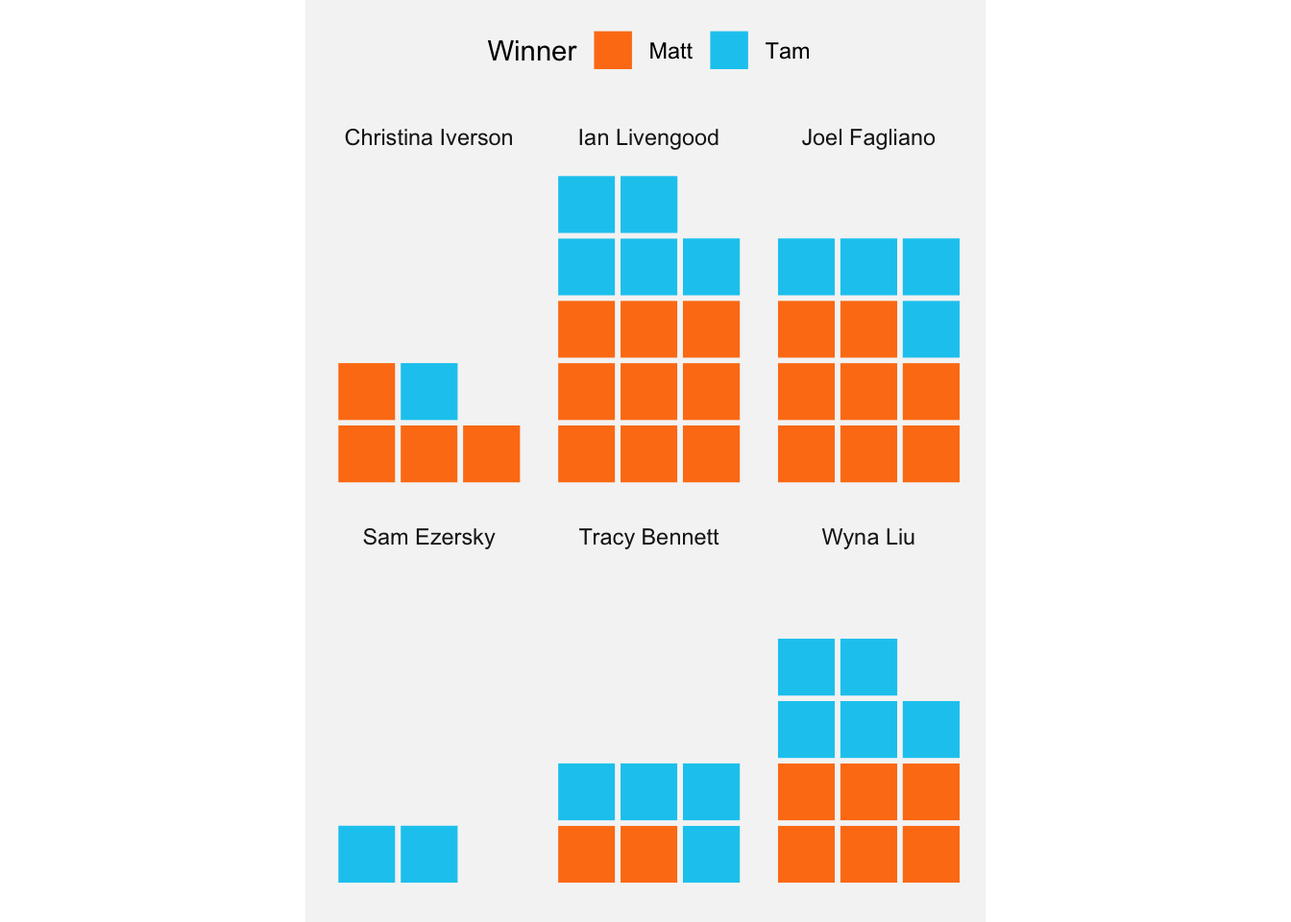
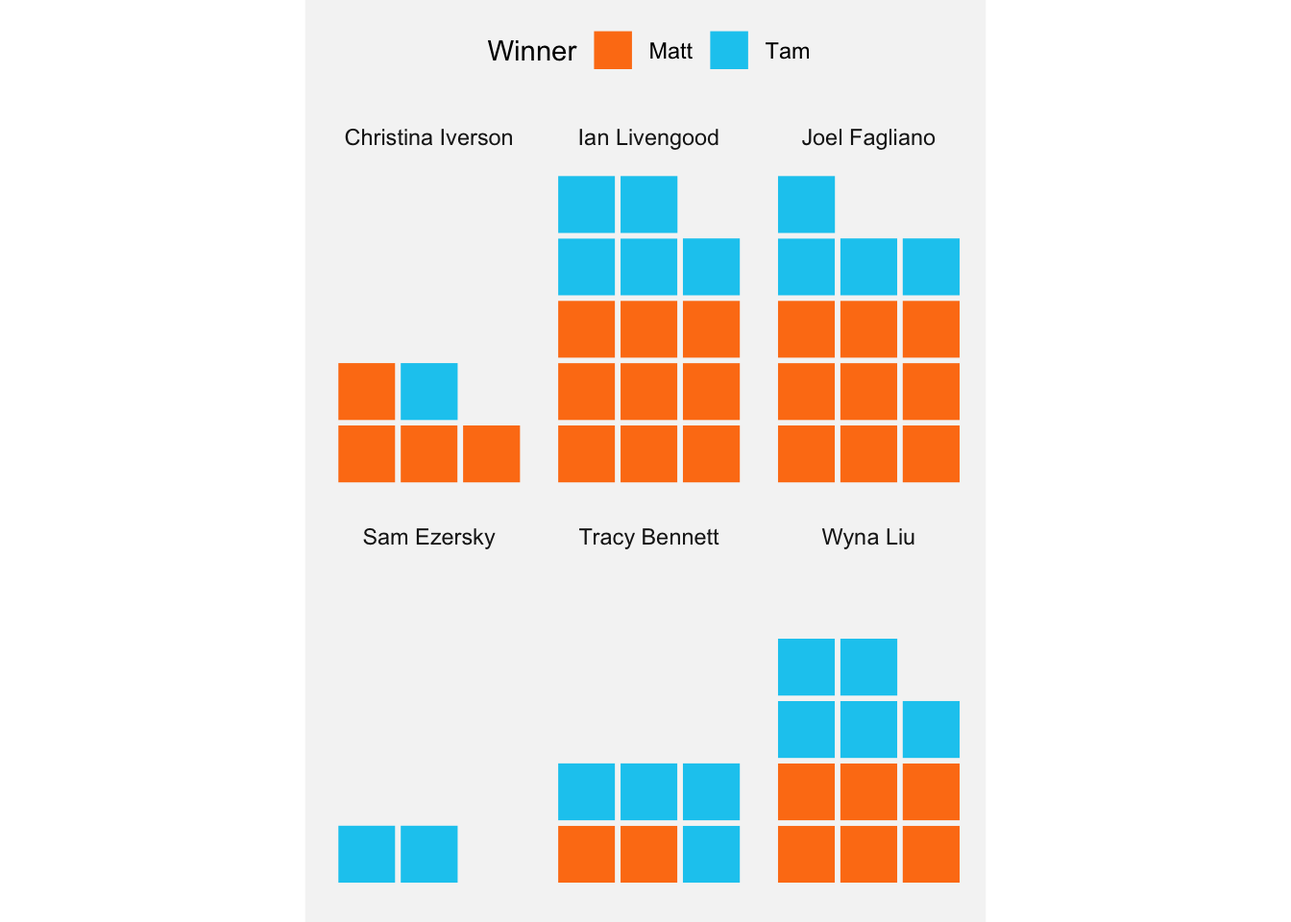
Use a donut chart

Changed region(s): [[0.6875, 0.3125, 0.75, 0.4062], [0.5938, 0.1875, 0.6562, 0.25]]

diff --git a/mini.html b/mini.html
@@ -33,6 +33,7 @@ ul.task-list li input[type="checkbox"] {
 <script src="mini_files/libs/bootstrap/bootstrap.min.js"></script>
 <link href="mini_files/libs/bootstrap/bootstrap-icons.css" rel="stylesheet">
 <link href="mini_files/libs/bootstrap/bootstrap.min.css" rel="stylesheet" id="quarto-bootstrap" data-mode="light">
+<link href="mini_files/libs/htmltools-fill-0.5.8.1/fill.css" rel="stylesheet">
 <script src="mini_files/libs/htmlwidgets-1.6.4/htmlwidgets.js"></script>
 <script src="mini_files/libs/plotly-binding-4.10.4/plotly.js"></script>
 <script src="mini_files/libs/typedarray-0.1/typedarray.min.js"></script>
@@ -41,7 +42,6 @@ ul.task-list li input[type="checkbox"] {
 <script src="mini_files/libs/crosstalk-1.2.1/js/crosstalk.min.js"></script>
 <link href="mini_files/libs/plotly-htmlwidgets-css-2.11.1/plotly-htmlwidgets.css" rel="stylesheet">
 <script src="mini_files/libs/plotly-main-2.11.1/plotly-latest.min.js"></script>
-<link href="mini_files/libs/htmltools-fill-0.5.8.1/fill.css" rel="stylesheet">
 
 
 <link rel="stylesheet" href="crossword.css">
@@ -75,11 +75,14 @@ ul.task-list li input[type="checkbox"] {
 <p>S</p>
 </div>
 </div>
-<p>After 52 Minis, <strong><span class="matt">Matt</span></strong> is leading 29 to 21 (with 2 draws).</p>
+<p>After 52 Minis, <strong><span class="matt">Matt</span></strong> is leading 30 to 21 (with 1 draw).</p>
 <div class="cell">
 <div class="cell-output-display">
-<div id="htmlwidget-36adeb870fa0dd1360db" style="width:100%;height:145px;" class="plotly html-widget"></div>
-<script type="application/json" data-for="htmlwidget-36adeb870fa0dd1360db">{"x":{"data":[{"orientation":"h","width":0.89999999999999991,"base":0.96153846153846156,"x":[0.038461538461538436],"y":[1],"text":"Matt and Tam have drawn 2 Minis (3.8%) so far","type":"bar","textposition":"none","marker":{"autocolorscale":false,"color":"rgba(190,190,190,1)","line":{"width":1.8897637795275593,"color":"transparent"}},"name":"Draw","legendgroup":"Draw","showlegend":true,"xaxis":"x","yaxis":"y","hoverinfo":"text","frame":null},{"orientation":"h","width":0.89999999999999991,"base":0.55769230769230771,"x":[0.40384615384615385],"y":[1],"text":"Tam has won 21 of 52 Minis (40.4%) so far","type":"bar","textposition":"none","marker":{"autocolorscale":false,"color":"rgba(13,202,240,1)","line":{"width":1.8897637795275593,"color":"transparent"}},"name":"Tam","legendgroup":"Tam","showlegend":true,"xaxis":"x","yaxis":"y","hoverinfo":"text","frame":null},{"orientation":"h","width":0.89999999999999991,"base":0,"x":[0.55769230769230771],"y":[1],"text":"Matt has won 29 of 52 Minis (55.8%) so far","type":"bar","textposition":"none","marker":{"autocolorscale":false,"color":"rgba(253,126,20,1)","line":{"width":1.8897637795275593,"color":"transparent"}},"name":"Matt","legendgroup":"Matt","showlegend":true,"xaxis":"x","yaxis":"y","hoverinfo":"text","frame":null},{"x":[0.98076923076923084],"y":[1],"text":"","hovertext":"Matt and Tam have drawn 2 Minis (3.8%) so far","textfont":{"size":11.338582677165356,"color":"rgba(255,255,255,1)"},"type":"scatter","mode":"text","hoveron":"points","name":"Draw","legendgroup":"Draw","showlegend":false,"xaxis":"x","yaxis":"y","hoverinfo":"text","frame":null},{"x":[0.75961538461538458],"y":[1],"text":"Tam: 21 (40%)","hovertext":"Tam has won 21 of 52 Minis (40.4%) so far","textfont":{"size":11.338582677165356,"color":"rgba(255,255,255,1)"},"type":"scatter","mode":"text","hoveron":"points","name":"Tam","legendgroup":"Tam","showlegend":false,"xaxis":"x","yaxis":"y","hoverinfo":"text","frame":null},{"x":[0.27884615384615385],"y":[1],"text":"Matt: 29 (56%)","hovertext":"Matt has won 29 of 52 Minis (55.8%) so far","textfont":{"size":11.338582677165356,"color":"rgba(255,255,255,1)"},"type":"scatter","mode":"text","hoveron":"points","name":"Matt","legendgroup":"Matt","showlegend":false,"xaxis":"x","yaxis":"y","hoverinfo":"text","frame":null}],"layout":{"margin":{"t":40.547945205479465,"r":7.3059360730593621,"b":28.200913242009143,"l":10.958904109589042},"plot_bgcolor":"rgba(245,245,245,1)","paper_bgcolor":"rgba(245,245,245,1)","font":{"color":"rgba(0,0,0,1)","family":"","size":14.611872146118724},"xaxis":{"domain":[0,1],"automargin":true,"type":"linear","autorange":false,"range":[-0.050000000000000003,1.05],"tickmode":"array","ticktext":["0.00","0.25","0.50","0.75","1.00"],"tickvals":[0,0.25,0.5,0.75,1],"categoryorder":"array","categoryarray":["0.00","0.25","0.50","0.75","1.00"],"nticks":null,"ticks":"","tickcolor":null,"ticklen":3.6529680365296811,"tickwidth":0,"showticklabels":false,"tickfont":{"color":null,"family":null,"size":0},"tickangle":-0,"showline":false,"linecolor":null,"linewidth":0,"showgrid":false,"gridcolor":null,"gridwidth":0,"zeroline":false,"anchor":"y","title":{"text":"","font":{"color":"rgba(0,0,0,1)","family":"","size":14.611872146118724}},"hoverformat":".2f"},"yaxis":{"domain":[0,1],"automargin":true,"type":"linear","autorange":false,"range":[0.40000000000000002,1.6000000000000001],"tickmode":"array","ticktext":["1"],"tickvals":[1],"categoryorder":"array","categoryarray":["1"],"nticks":null,"ticks":"","tickcolor":null,"ticklen":3.6529680365296811,"tickwidth":0,"showticklabels":false,"tickfont":{"color":null,"family":null,"size":0},"tickangle":-0,"showline":false,"linecolor":null,"linewidth":0,"showgrid":false,"gridcolor":null,"gridwidth":0,"zeroline":false,"anchor":"x","title":{"text":"","font":{"color":"rgba(0,0,0,1)","family":"","size":14.611872146118724}},"hoverformat":".2f"},"shapes":[{"type":"rect","fillcolor":null,"line":{"color":null,"width":0,"linetype":[]},"yref":"paper","xref":"paper","x0":0,"x1":1,"y0":0,"y1":1}],"showlegend":false,"legend":{"bgcolor":null,"bordercolor":null,"borderwidth":0,"font":{"color":"rgba(0,0,0,1)","family":"","size":11.68949771689498},"title":{"text":"","font":{"color":"rgba(0,0,0,1)","family":"","size":14.611872146118724}}},"hovermode":"closest","height":150,"barmode":"relative"},"config":{"doubleClick":"reset","modeBarButtonsToAdd":["hoverclosest","hovercompare"],"showSendToCloud":false,"displayModeBar":true,"displaylogo":false,"modeBarButtonsToRemove":["zoom","pan","select","zoomIn","zoomOut","autoScale","resetScale","lasso2d","hoverClosestCartesian","hoverCompareCartesian"]},"source":"A","attrs":{"b2fec1ca85d":{"x":{},"y":{},"fill":{},"label":{},"text":{},"type":"bar"},"b2fe2d7177e1":{"x":{},"y":{},"fill":{},"label":{},"text":{}}},"cur_data":"b2fec1ca85d","visdat":{"b2fec1ca85d":["function (y) ","x"],"b2fe2d7177e1":["function (y) ","x"]},"highlight":{"on":"plotly_click","persistent":false,"dynamic":false,"selectize":false,"opacityDim":0.20000000000000001,"selected":{"opacity":1},"debounce":0},"shinyEvents":["plotly_hover","plotly_click","plotly_selected","plotly_relayout","plotly_brushed","plotly_brushing","plotly_clickannotation","plotly_doubleclick","plotly_deselect","plotly_afterplot","plotly_sunburstclick"],"base_url":"https://plot.ly"},"evals":[],"jsHooks":[]}</script>
+<div>
+<figure class="figure">
+<p><img src="mini_files/figure-html/Chart%20comparing%20numbers/proportions%20of%20wins-1.png" class="img-fluid figure-img" width="672"></p>
+</figure>
+</div>
 </div>
 </div>
 <div class="crossword-container">
@@ -101,14 +104,14 @@ ul.task-list li input[type="checkbox"] {
 </div>
 </div>
 </div>
-<p>We both hold the record for the fastest Mini, completing it in <strong>0:10</strong> on 22 March 2025.</p>
-<p><span class="matt">Matt</span> played the slowest game: a sluggish <strong>5:46</strong> on 1 February 2025.</p>
-<p>Other than the draws, our closest game was won by <strong><span class="tam">Tam</span></strong> by a mere 1 second.</p>
-<p>This chart compares our completion times for each Mini:</p>
+<p><span class="matt">Matt</span> holds the record for the fastest Mini, completing it in <strong>0:18</strong> on 4 February 2025.</p>
+<p><span class="matt">Matt</span> also played the slowest game: a sluggish <strong>5:46</strong> on 1 February 2025.</p>
+<p>Other than the draw, our closest game was won by <strong><span class="tam">Tam</span></strong> by a mere 1 second.</p>
+<p>This chart compares our completion times for each Mini. Click/hover on the points to see the details of each game.</p>
 <div class="cell">
 <div class="cell-output-display">
-<div class="plotly html-widget html-fill-item" id="htmlwidget-883550434ba22722b62f" style="width:100%;height:464px;"></div>
-<script type="application/json" data-for="htmlwidget-883550434ba22722b62f">{"x":{"data":[{"x":[20080,20080,null,20081,20081,null,20083,20083,null,20085,20085,null,20086,20086,null,20089,20089,null,20090,20090,null,20091,20091,null,20092,20092,null,20093,20093,null,20095,20095,null,20098,20098,null,20099,20099,null,20100,20100,null,20101,20101,null,20105,20105,null,20108,20108,null,20109,20109,null,20110,20110,null,20112,20112,null,20113,20113,null,20114,20114,null,20115,20115,null,20116,20116,null,20118,20118,null,20119,20119,null,20120,20120,null,20122,20122,null,20123,20123,null,20124,20124,null,20125,20125,null,20126,20126,null,20128,20128,null,20130,20130,null,20131,20131,null,20135,20135,null,20137,20137,null,20138,20138,null,20139,20139,null,20141,20141,null,20142,20142,null,20143,20143,null,20144,20144,null,20145,20145,null,20146,20146,null,20147,20147,null,20149,20149,null,20150,20150,null,20159,20159,null,20163,20163,null,20164,20164,null,20169,20169],"y":[142,72,null,48,39,null,80,234,null,229,137,null,65,162,null,154,34,null,56,32,null,99,72,null,117,93,null,49,49,null,92,155,null,86,57,null,104,124,null,61,141,null,51,146,null,51,45,null,106,86,null,71,46,null,50,52,null,59,182,null,242,144,null,82,71,null,129,60,null,120,135,null,121,162,null,31,74,null,346,257,null,49,81,null,18,27,null,194,77,null,46,114,null,45,64,null,40,62,null,57,50,null,45,74,null,92,82,null,163,70,null,57,66,null,160,46,null,124,340,null,44,81,null,45,80,null,45,82,null,115,182,null,97,118,null,54,57,null,61,163,null,66,65,null,63,155,null,62,68,null,75,129,null,10,10],"text":"","type":"scatter","mode":"lines","line":{"width":1.8897637795275593,"color":"rgba(0,0,0,1)","dash":"solid"},"hoveron":"points","showlegend":false,"xaxis":"x","yaxis":"y","hoverinfo":"text","frame":null},{"x":[20080,20081,20083,20085,20086,20089,20090,20091,20092,20093,20095,20098,20099,20100,20101,20105,20108,20109,20110,20112,20113,20114,20115,20116,20118,20119,20120,20122,20123,20124,20125,20126,20128,20130,20131,20135,20137,20138,20139,20141,20142,20143,20144,20145,20146,20147,20149,20150,20159,20163,20164,20169],"y":[142,48,80,229,65,154,56,99,117,49,92,86,104,61,51,51,106,71,50,59,242,82,129,120,121,31,346,49,18,194,46,45,40,57,45,92,163,57,160,124,44,45,45,115,97,54,61,66,63,62,75,10],"text":["Matt completed the Mini in 2:22 on 23 December 2024","Matt completed the Mini in 0:48 on 24 December 2024","Matt completed the Mini in 1:20 on 26 December 2024","Matt completed the Mini in 3:49 on 28 December 2024","Matt completed the Mini in 1:05 on 29 December 2024","Matt completed the Mini in 2:34 on 1 January 2025","Matt completed the Mini in 0:56 on 2 January 2025","Matt completed the Mini in 1:39 on 3 January 2025","Matt completed the Mini in 1:57 on 4 January 2025","Matt completed the Mini in 0:49 on 5 January 2025","Matt completed the Mini in 1:32 on 7 January 2025","Matt completed the Mini in 1:26 on 10 January 2025","Matt completed the Mini in 1:44 on 11 January 2025","Matt completed the Mini in 1:01 on 12 January 2025","Matt completed the Mini in 0:51 on 13 January 2025","Matt completed the Mini in 0:51 on 17 January 2025","Matt completed the Mini in 1:46 on 20 January 2025","Matt completed the Mini in 1:11 on 21 January 2025","Matt completed the Mini in 0:50 on 22 January 2025","Matt completed the Mini in 0:59 on 24 January 2025","Matt completed the Mini in 4:02 on 25 January 2025","Matt completed the Mini in 1:22 on 26 January 2025","Matt completed the Mini in 2:09 on 27 January 2025","Matt completed the Mini in 2:00 on 28 January 2025","Matt completed the Mini in 2:01 on 30 January 2025","Matt completed the Mini in 0:31 on 31 January 2025","Matt completed the Mini in 5:46 on 1 February 2025","Matt completed the Mini in 0:49 on 3 February 2025","Matt completed the Mini in 0:18 on 4 February 2025","Matt completed the Mini in 3:14 on 5 February 2025","Matt completed the Mini in 0:46 on 6 February 2025","Matt completed the Mini in 0:45 on 7 February 2025","Matt completed the Mini in 0:40 on 9 February 2025","Matt completed the Mini in 0:57 on 11 February 2025","Matt completed the Mini in 0:45 on 12 February 2025","Matt completed the Mini in 1:32 on 16 February 2025","Matt completed the Mini in 2:43 on 18 February 2025","Matt completed the Mini in 0:57 on 19 February 2025","Matt completed the Mini in 2:40 on 20 February 2025","Matt completed the Mini in 2:04 on 22 February 2025","Matt completed the Mini in 0:44 on 23 February 2025","Matt completed the Mini in 0:45 on 24 February 2025","Matt completed the Mini in 0:45 on 25 February 2025","Matt completed the Mini in 1:55 on 26 February 2025","Matt completed the Mini in 1:37 on 27 February 2025","Matt completed the Mini in 0:54 on 28 February 2025","Matt completed the Mini in 1:01 on 2 March 2025","Matt completed the Mini in 1:06 on 3 March 2025","Matt completed the Mini in 1:03 on 12 March 2025","Matt completed the Mini in 1:02 on 16 March 2025","Matt completed the Mini in 1:15 on 17 March 2025","Matt completed the Mini in 0:10 on 22 March 2025"],"type":"scatter","mode":"markers","marker":{"autocolorscale":false,"color":"rgba(253,126,20,1)","opacity":1,"size":7.559055118110237,"symbol":"circle","line":{"width":1.8897637795275593,"color":"rgba(253,126,20,1)"}},"hoveron":"points","showlegend":false,"xaxis":"x","yaxis":"y","hoverinfo":"text","frame":null},{"x":[20080,20081,20083,20085,20086,20089,20090,20091,20092,20093,20095,20098,20099,20100,20101,20105,20108,20109,20110,20112,20113,20114,20115,20116,20118,20119,20120,20122,20123,20124,20125,20126,20128,20130,20131,20135,20137,20138,20139,20141,20142,20143,20144,20145,20146,20147,20149,20150,20159,20163,20164,20169],"y":[72,39,234,137,162,34,32,72,93,49,155,57,124,141,146,45,86,46,52,182,144,71,60,135,162,74,257,81,27,77,114,64,62,50,74,82,70,66,46,340,81,80,82,182,118,57,163,65,155,68,129,10],"text":["Tam completed the Mini in 1:12 on 23 December 2024","Tam completed the Mini in 0:39 on 24 December 2024","Tam completed the Mini in 3:54 on 26 December 2024","Tam completed the Mini in 2:17 on 28 December 2024","Tam completed the Mini in 2:42 on 29 December 2024","Tam completed the Mini in 0:34 on 1 January 2025","Tam completed the Mini in 0:32 on 2 January 2025","Tam completed the Mini in 1:12 on 3 January 2025","Tam completed the Mini in 1:33 on 4 January 2025","Tam completed the Mini in 0:49 on 5 January 2025","Tam completed the Mini in 2:35 on 7 January 2025","Tam completed the Mini in 0:57 on 10 January 2025","Tam completed the Mini in 2:04 on 11 January 2025","Tam completed the Mini in 2:21 on 12 January 2025","Tam completed the Mini in 2:26 on 13 January 2025","Tam completed the Mini in 0:45 on 17 January 2025","Tam completed the Mini in 1:26 on 20 January 2025","Tam completed the Mini in 0:46 on 21 January 2025","Tam completed the Mini in 0:52 on 22 January 2025","Tam completed the Mini in 3:02 on 24 January 2025","Tam completed the Mini in 2:24 on 25 January 2025","Tam completed the Mini in 1:11 on 26 January 2025","Tam completed the Mini in 1:00 on 27 January 2025","Tam completed the Mini in 2:15 on 28 January 2025","Tam completed the Mini in 2:42 on 30 January 2025","Tam completed the Mini in 1:14 on 31 January 2025","Tam completed the Mini in 4:17 on 1 February 2025","Tam completed the Mini in 1:21 on 3 February 2025","Tam completed the Mini in 0:27 on 4 February 2025","Tam completed the Mini in 1:17 on 5 February 2025","Tam completed the Mini in 1:54 on 6 February 2025","Tam completed the Mini in 1:04 on 7 February 2025","Tam completed the Mini in 1:02 on 9 February 2025","Tam completed the Mini in 0:50 on 11 February 2025","Tam completed the Mini in 1:14 on 12 February 2025","Tam completed the Mini in 1:22 on 16 February 2025","Tam completed the Mini in 1:10 on 18 February 2025","Tam completed the Mini in 1:06 on 19 February 2025","Tam completed the Mini in 0:46 on 20 February 2025","Tam completed the Mini in 5:40 on 22 February 2025","Tam completed the Mini in 1:21 on 23 February 2025","Tam completed the Mini in 1:20 on 24 February 2025","Tam completed the Mini in 1:22 on 25 February 2025","Tam completed the Mini in 3:02 on 26 February 2025","Tam completed the Mini in 1:58 on 27 February 2025","Tam completed the Mini in 0:57 on 28 February 2025","Tam completed the Mini in 2:43 on 2 March 2025","Tam completed the Mini in 1:05 on 3 March 2025","Tam completed the Mini in 2:35 on 12 March 2025","Tam completed the Mini in 1:08 on 16 March 2025","Tam completed the Mini in 2:09 on 17 March 2025","Tam completed the Mini in 0:10 on 22 March 2025"],"type":"scatter","mode":"markers","marker":{"autocolorscale":false,"color":"rgba(13,202,240,1)","opacity":1,"size":7.559055118110237,"symbol":"circle","line":{"width":1.8897637795275593,"color":"rgba(13,202,240,1)"}},"hoveron":"points","showlegend":false,"xaxis":"x","yaxis":"y","hoverinfo":"text","frame":null}],"layout":{"margin":{"t":26.228310502283108,"r":7.3059360730593621,"b":25.57077625570777,"l":43.105022831050235},"plot_bgcolor":"rgba(245,245,245,1)","paper_bgcolor":"rgba(245,245,245,1)","font":{"color":"rgba(0,0,0,1)","family":"","size":14.611872146118724},"xaxis":{"domain":[0,1],"automargin":true,"type":"linear","autorange":false,"range":[20075.549999999999,20173.450000000001],"tickmode":"array","ticktext":["Jan","Feb","Mar"],"tickvals":[20089,20120,20148],"categoryorder":"array","categoryarray":["Jan","Feb","Mar"],"nticks":null,"ticks":"","tickcolor":null,"ticklen":3.6529680365296811,"tickwidth":0,"showticklabels":true,"tickfont":{"color":"rgba(77,77,77,1)","family":"","size":11.68949771689498},"tickangle":-0,"showline":false,"linecolor":null,"linewidth":0,"showgrid":true,"gridcolor":"rgba(235,235,235,1)","gridwidth":0.66417600664176002,"zeroline":false,"anchor":"y","title":{"text":"","font":{"color":"rgba(0,0,0,1)","family":"","size":14.611872146118724}},"hoverformat":".2f"},"yaxis":{"domain":[0,1],"automargin":true,"type":"linear","autorange":false,"range":[-6.8000000000000007,362.80000000000001],"tickmode":"array","ticktext":["0","100","200","300"],"tickvals":[0,100,200,300],"categoryorder":"array","categoryarray":["0","100","200","300"],"nticks":null,"ticks":"","tickcolor":null,"ticklen":3.6529680365296811,"tickwidth":0,"showticklabels":true,"tickfont":{"color":"rgba(77,77,77,1)","family":"","size":11.68949771689498},"tickangle":-0,"showline":false,"linecolor":null,"linewidth":0,"showgrid":true,"gridcolor":"rgba(235,235,235,1)","gridwidth":0.66417600664176002,"zeroline":false,"anchor":"x","title":{"text":"Time to finish Mini (seconds)","font":{"color":"rgba(0,0,0,1)","family":"","size":14.611872146118724}},"hoverformat":".2f"},"shapes":[{"type":"rect","fillcolor":null,"line":{"color":null,"width":0,"linetype":[]},"yref":"paper","xref":"paper","x0":0,"x1":1,"y0":0,"y1":1}],"showlegend":false,"legend":{"bgcolor":null,"bordercolor":null,"borderwidth":0,"font":{"color":"rgba(0,0,0,1)","family":"","size":11.68949771689498}},"hovermode":"x","barmode":"relative"},"config":{"doubleClick":"reset","modeBarButtonsToAdd":["hoverclosest","hovercompare"],"showSendToCloud":false,"displayModeBar":true,"displaylogo":false,"modeBarButtonsToRemove":["pan","select","autoScale","lasso2d","hoverClosestCartesian","hoverCompareCartesian"]},"source":"A","attrs":{"b2fe3926419f":{"x":{},"y":{},"xend":{},"yend":{},"type":"scatter"},"b2fe7e9e4b08":{"x":{},"y":{},"xend":{},"yend":{},"text":{}},"b2fe4a503b29":{"x":{},"y":{},"xend":{},"yend":{},"text":{}}},"cur_data":"b2fe3926419f","visdat":{"b2fe3926419f":["function (y) ","x"],"b2fe7e9e4b08":["function (y) ","x"],"b2fe4a503b29":["function (y) ","x"]},"highlight":{"on":"plotly_click","persistent":false,"dynamic":false,"selectize":false,"opacityDim":0.20000000000000001,"selected":{"opacity":1},"debounce":0},"shinyEvents":["plotly_hover","plotly_click","plotly_selected","plotly_relayout","plotly_brushed","plotly_brushing","plotly_clickannotation","plotly_doubleclick","plotly_deselect","plotly_afterplot","plotly_sunburstclick"],"base_url":"https://plot.ly"},"evals":[],"jsHooks":[]}</script>
+<div class="plotly html-widget html-fill-item" id="htmlwidget-49c35e6c49479754ac1f" style="width:100%;height:464px;"></div>
+<script type="application/json" data-for="htmlwidget-49c35e6c49479754ac1f">{"x":{"data":[{"x":[20080,20080,null,20081,20081,null,20083,20083,null,20085,20085,null,20086,20086,null,20089,20089,null,20090,20090,null,20091,20091,null,20092,20092,null,20093,20093,null,20095,20095,null,20098,20098,null,20099,20099,null,20100,20100,null,20101,20101,null,20105,20105,null,20108,20108,null,20109,20109,null,20110,20110,null,20112,20112,null,20113,20113,null,20114,20114,null,20115,20115,null,20116,20116,null,20118,20118,null,20119,20119,null,20120,20120,null,20122,20122,null,20123,20123,null,20124,20124,null,20125,20125,null,20126,20126,null,20128,20128,null,20130,20130,null,20131,20131,null,20135,20135,null,20137,20137,null,20138,20138,null,20139,20139,null,20141,20141,null,20142,20142,null,20143,20143,null,20144,20144,null,20145,20145,null,20146,20146,null,20147,20147,null,20149,20149,null,20150,20150,null,20159,20159,null,20163,20163,null,20164,20164,null,20180,20180],"y":[142,72,null,48,39,null,80,234,null,229,137,null,65,162,null,154,34,null,56,32,null,99,72,null,117,93,null,49,49,null,92,155,null,86,57,null,104,124,null,61,141,null,51,146,null,51,45,null,106,86,null,71,46,null,50,52,null,59,182,null,242,144,null,82,71,null,129,60,null,120,135,null,121,162,null,31,74,null,346,257,null,49,81,null,18,27,null,194,77,null,46,114,null,45,64,null,40,62,null,57,50,null,45,74,null,92,82,null,163,70,null,57,66,null,160,46,null,124,340,null,44,81,null,45,80,null,45,82,null,115,182,null,97,118,null,54,57,null,61,163,null,66,65,null,63,155,null,62,68,null,75,129,null,66,69],"text":"","type":"scatter","mode":"lines","line":{"width":1.8897637795275593,"color":"rgba(0,0,0,1)","dash":"solid"},"hoveron":"points","showlegend":false,"xaxis":"x","yaxis":"y","hoverinfo":"text","frame":null},{"x":[20080,20081,20083,20085,20086,20089,20090,20091,20092,20093,20095,20098,20099,20100,20101,20105,20108,20109,20110,20112,20113,20114,20115,20116,20118,20119,20120,20122,20123,20124,20125,20126,20128,20130,20131,20135,20137,20138,20139,20141,20142,20143,20144,20145,20146,20147,20149,20150,20159,20163,20164,20180],"y":[142,48,80,229,65,154,56,99,117,49,92,86,104,61,51,51,106,71,50,59,242,82,129,120,121,31,346,49,18,194,46,45,40,57,45,92,163,57,160,124,44,45,45,115,97,54,61,66,63,62,75,66],"text":["Matt completed the Mini in 2:22 on 23 December 2024","Matt completed the Mini in 0:48 on 24 December 2024","Matt completed the Mini in 1:20 on 26 December 2024","Matt completed the Mini in 3:49 on 28 December 2024","Matt completed the Mini in 1:05 on 29 December 2024","Matt completed the Mini in 2:34 on 1 January 2025","Matt completed the Mini in 0:56 on 2 January 2025","Matt completed the Mini in 1:39 on 3 January 2025","Matt completed the Mini in 1:57 on 4 January 2025","Matt completed the Mini in 0:49 on 5 January 2025","Matt completed the Mini in 1:32 on 7 January 2025","Matt completed the Mini in 1:26 on 10 January 2025","Matt completed the Mini in 1:44 on 11 January 2025","Matt completed the Mini in 1:01 on 12 January 2025","Matt completed the Mini in 0:51 on 13 January 2025","Matt completed the Mini in 0:51 on 17 January 2025","Matt completed the Mini in 1:46 on 20 January 2025","Matt completed the Mini in 1:11 on 21 January 2025","Matt completed the Mini in 0:50 on 22 January 2025","Matt completed the Mini in 0:59 on 24 January 2025","Matt completed the Mini in 4:02 on 25 January 2025","Matt completed the Mini in 1:22 on 26 January 2025","Matt completed the Mini in 2:09 on 27 January 2025","Matt completed the Mini in 2:00 on 28 January 2025","Matt completed the Mini in 2:01 on 30 January 2025","Matt completed the Mini in 0:31 on 31 January 2025","Matt completed the Mini in 5:46 on 1 February 2025","Matt completed the Mini in 0:49 on 3 February 2025","Matt completed the Mini in 0:18 on 4 February 2025","Matt completed the Mini in 3:14 on 5 February 2025","Matt completed the Mini in 0:46 on 6 February 2025","Matt completed the Mini in 0:45 on 7 February 2025","Matt completed the Mini in 0:40 on 9 February 2025","Matt completed the Mini in 0:57 on 11 February 2025","Matt completed the Mini in 0:45 on 12 February 2025","Matt completed the Mini in 1:32 on 16 February 2025","Matt completed the Mini in 2:43 on 18 February 2025","Matt completed the Mini in 0:57 on 19 February 2025","Matt completed the Mini in 2:40 on 20 February 2025","Matt completed the Mini in 2:04 on 22 February 2025","Matt completed the Mini in 0:44 on 23 February 2025","Matt completed the Mini in 0:45 on 24 February 2025","Matt completed the Mini in 0:45 on 25 February 2025","Matt completed the Mini in 1:55 on 26 February 2025","Matt completed the Mini in 1:37 on 27 February 2025","Matt completed the Mini in 0:54 on 28 February 2025","Matt completed the Mini in 1:01 on 2 March 2025","Matt completed the Mini in 1:06 on 3 March 2025","Matt completed the Mini in 1:03 on 12 March 2025","Matt completed the Mini in 1:02 on 16 March 2025","Matt completed the Mini in 1:15 on 17 March 2025","Matt completed the Mini in 1:06 on 2 April 2025"],"type":"scatter","mode":"markers","marker":{"autocolorscale":false,"color":"rgba(253,126,20,1)","opacity":1,"size":7.559055118110237,"symbol":"circle","line":{"width":1.8897637795275593,"color":"rgba(253,126,20,1)"}},"hoveron":"points","showlegend":false,"xaxis":"x","yaxis":"y","hoverinfo":"text","frame":null},{"x":[20080,20081,20083,20085,20086,20089,20090,20091,20092,20093,20095,20098,20099,20100,20101,20105,20108,20109,20110,20112,20113,20114,20115,20116,20118,20119,20120,20122,20123,20124,20125,20126,20128,20130,20131,20135,20137,20138,20139,20141,20142,20143,20144,20145,20146,20147,20149,20150,20159,20163,20164,20180],"y":[72,39,234,137,162,34,32,72,93,49,155,57,124,141,146,45,86,46,52,182,144,71,60,135,162,74,257,81,27,77,114,64,62,50,74,82,70,66,46,340,81,80,82,182,118,57,163,65,155,68,129,69],"text":["Tam completed the Mini in 1:12 on 23 December 2024","Tam completed the Mini in 0:39 on 24 December 2024","Tam completed the Mini in 3:54 on 26 December 2024","Tam completed the Mini in 2:17 on 28 December 2024","Tam completed the Mini in 2:42 on 29 December 2024","Tam completed the Mini in 0:34 on 1 January 2025","Tam completed the Mini in 0:32 on 2 January 2025","Tam completed the Mini in 1:12 on 3 January 2025","Tam completed the Mini in 1:33 on 4 January 2025","Tam completed the Mini in 0:49 on 5 January 2025","Tam completed the Mini in 2:35 on 7 January 2025","Tam completed the Mini in 0:57 on 10 January 2025","Tam completed the Mini in 2:04 on 11 January 2025","Tam completed the Mini in 2:21 on 12 January 2025","Tam completed the Mini in 2:26 on 13 January 2025","Tam completed the Mini in 0:45 on 17 January 2025","Tam completed the Mini in 1:26 on 20 January 2025","Tam completed the Mini in 0:46 on 21 January 2025","Tam completed the Mini in 0:52 on 22 January 2025","Tam completed the Mini in 3:02 on 24 January 2025","Tam completed the Mini in 2:24 on 25 January 2025","Tam completed the Mini in 1:11 on 26 January 2025","Tam completed the Mini in 1:00 on 27 January 2025","Tam completed the Mini in 2:15 on 28 January 2025","Tam completed the Mini in 2:42 on 30 January 2025","Tam completed the Mini in 1:14 on 31 January 2025","Tam completed the Mini in 4:17 on 1 February 2025","Tam completed the Mini in 1:21 on 3 February 2025","Tam completed the Mini in 0:27 on 4 February 2025","Tam completed the Mini in 1:17 on 5 February 2025","Tam completed the Mini in 1:54 on 6 February 2025","Tam completed the Mini in 1:04 on 7 February 2025","Tam completed the Mini in 1:02 on 9 February 2025","Tam completed the Mini in 0:50 on 11 February 2025","Tam completed the Mini in 1:14 on 12 February 2025","Tam completed the Mini in 1:22 on 16 February 2025","Tam completed the Mini in 1:10 on 18 February 2025","Tam completed the Mini in 1:06 on 19 February 2025","Tam completed the Mini in 0:46 on 20 February 2025","Tam completed the Mini in 5:40 on 22 February 2025","Tam completed the Mini in 1:21 on 23 February 2025","Tam completed the Mini in 1:20 on 24 February 2025","Tam completed the Mini in 1:22 on 25 February 2025","Tam completed the Mini in 3:02 on 26 February 2025","Tam completed the Mini in 1:58 on 27 February 2025","Tam completed the Mini in 0:57 on 28 February 2025","Tam completed the Mini in 2:43 on 2 March 2025","Tam completed the Mini in 1:05 on 3 March 2025","Tam completed the Mini in 2:35 on 12 March 2025","Tam completed the Mini in 1:08 on 16 March 2025","Tam completed the Mini in 2:09 on 17 March 2025","Tam completed the Mini in 1:09 on 2 April 2025"],"type":"scatter","mode":"markers","marker":{"autocolorscale":false,"color":"rgba(13,202,240,1)","opacity":1,"size":7.559055118110237,"symbol":"circle","line":{"width":1.8897637795275593,"color":"rgba(13,202,240,1)"}},"hoveron":"points","showlegend":false,"xaxis":"x","yaxis":"y","hoverinfo":"text","frame":null}],"layout":{"margin":{"t":26.228310502283108,"r":7.3059360730593621,"b":25.57077625570777,"l":43.105022831050235},"plot_bgcolor":"rgba(245,245,245,1)","paper_bgcolor":"rgba(245,245,245,1)","font":{"color":"rgba(0,0,0,1)","family":"","size":14.611872146118724},"xaxis":{"domain":[0,1],"automargin":true,"type":"linear","autorange":false,"range":[20075,20185],"tickmode":"array","ticktext":["Jan","Feb","Mar","Apr"],"tickvals":[20089,20120,20148,20179],"categoryorder":"array","categoryarray":["Jan","Feb","Mar","Apr"],"nticks":null,"ticks":"","tickcolor":null,"ticklen":3.6529680365296811,"tickwidth":0,"showticklabels":true,"tickfont":{"color":"rgba(77,77,77,1)","family":"","size":11.68949771689498},"tickangle":-0,"showline":false,"linecolor":null,"linewidth":0,"showgrid":true,"gridcolor":"rgba(235,235,235,1)","gridwidth":0.66417600664176002,"zeroline":false,"anchor":"y","title":{"text":"","font":{"color":"rgba(0,0,0,1)","family":"","size":14.611872146118724}},"hoverformat":".2f"},"yaxis":{"domain":[0,1],"automargin":true,"type":"linear","autorange":false,"range":[1.5999999999999979,362.39999999999998],"tickmode":"array","ticktext":["100","200","300"],"tickvals":[100,199.99999999999997,300],"categoryorder":"array","categoryarray":["100","200","300"],"nticks":null,"ticks":"","tickcolor":null,"ticklen":3.6529680365296811,"tickwidth":0,"showticklabels":true,"tickfont":{"color":"rgba(77,77,77,1)","family":"","size":11.68949771689498},"tickangle":-0,"showline":false,"linecolor":null,"linewidth":0,"showgrid":true,"gridcolor":"rgba(235,235,235,1)","gridwidth":0.66417600664176002,"zeroline":false,"anchor":"x","title":{"text":"Time to finish Mini (seconds)","font":{"color":"rgba(0,0,0,1)","family":"","size":14.611872146118724}},"hoverformat":".2f"},"shapes":[{"type":"rect","fillcolor":null,"line":{"color":null,"width":0,"linetype":[]},"yref":"paper","xref":"paper","x0":0,"x1":1,"y0":0,"y1":1}],"showlegend":false,"legend":{"bgcolor":null,"bordercolor":null,"borderwidth":0,"font":{"color":"rgba(0,0,0,1)","family":"","size":11.68949771689498}},"hovermode":"x","barmode":"relative"},"config":{"doubleClick":"reset","modeBarButtonsToAdd":["hoverclosest","hovercompare"],"showSendToCloud":false,"displayModeBar":true,"displaylogo":false,"modeBarButtonsToRemove":["pan","select","autoScale","lasso2d","hoverClosestCartesian","hoverCompareCartesian"]},"source":"A","attrs":{"129d792095b2":{"x":{},"y":{},"xend":{},"yend":{},"type":"scatter"},"129d73a43ddcc":{"x":{},"y":{},"xend":{},"yend":{},"text":{}},"129d73d9699f6":{"x":{},"y":{},"xend":{},"yend":{},"text":{}}},"cur_data":"129d792095b2","visdat":{"129d792095b2":["function (y) ","x"],"129d73a43ddcc":["function (y) ","x"],"129d73d9699f6":["function (y) ","x"]},"highlight":{"on":"plotly_click","persistent":false,"dynamic":false,"selectize":false,"opacityDim":0.20000000000000001,"selected":{"opacity":1},"debounce":0},"shinyEvents":["plotly_hover","plotly_click","plotly_selected","plotly_relayout","plotly_brushed","plotly_brushing","plotly_clickannotation","plotly_doubleclick","plotly_deselect","plotly_afterplot","plotly_sunburstclick"],"base_url":"https://plot.ly"},"evals":[],"jsHooks":[]}</script>
 </div>
 </div>
 <div class="crossword-container">
@@ -138,7 +141,7 @@ ul.task-list li input[type="checkbox"] {
 </div>
 </div>
 </div>
-<p>Both of us are least consistent on Saturdays, with completion times as quick as 0:10 and as slow as 5:46.</p>
+<p>Both of us are least consistent on Saturdays, with completion times as quick as 1:33 and as slow as 5:46.</p>
 <div class="crossword-container">
 <div class="crossword-grid">
 <div class="letter-cell">
@@ -176,9 +179,9 @@ ul.task-list li input[type="checkbox"] {
 </div>
 </div>
 </div>
-<p><span class="matt">Matt</span> tends to be fastest when <strong>Test</strong> sets the Mini, with an average completion time of <strong>0:10</strong>. But he’s slowest when <strong>Ian Livengood</strong> is the setter, completing these Minis in <strong>1:50</strong> on average.</p>
-<p><span class="tam">Tam</span> is speediest when <strong>Test</strong> sets the Mini, gunning it in <strong>0:10</strong>, on average. She’s slowest when they’re set by <strong>Christina Iverson</strong>, with an average completion time of <strong>2:55</strong>.</p>
-<p><em>Last updated on 23 March 2025.</em></p>
+<p><span class="matt">Matt</span> tends to be fastest when <strong>Joel Fagliano</strong> sets the Mini, with an average completion time of <strong>1:17</strong>. But he’s slowest when <strong>Ian Livengood</strong> is the setter, completing these Minis in <strong>1:50</strong> on average.</p>
+<p><span class="tam">Tam</span> is speediest when <strong>Sam Ezersky</strong> sets the Mini, gunning it in <strong>0:48</strong>, on average. She’s slowest when they’re set by <strong>Christina Iverson</strong>, with an average completion time of <strong>2:55</strong>.</p>
+<p><em>Last updated on 6 April 2025.</em></p>
 </section>
 
 </main>
